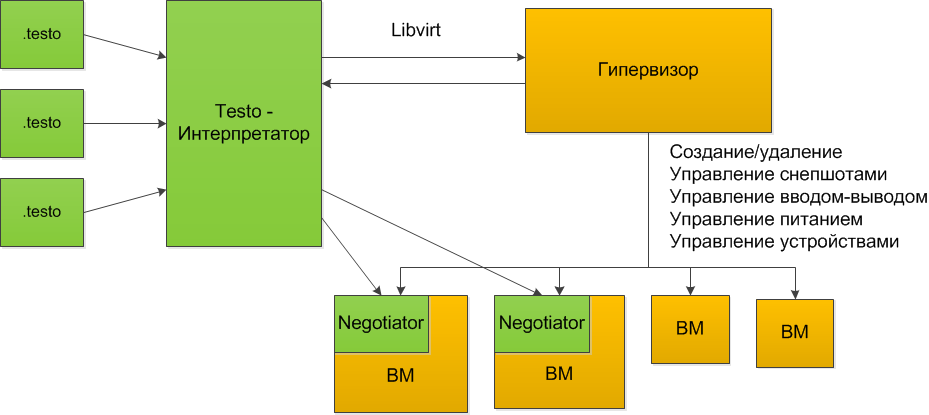
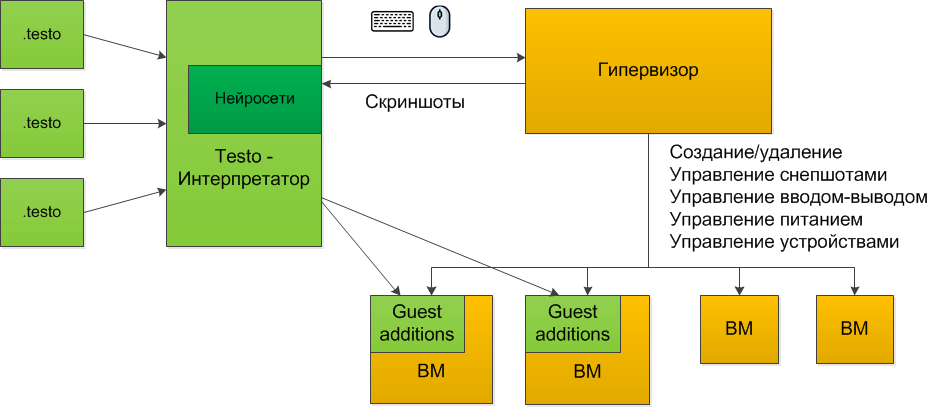
docs update

diff --git a/docs/source/getting_started/intro.rst b/docs/source/getting_started/intro.rst
@@ -15,23 +15,27 @@
 
 	- Unit-тестирование
 	- Тестирование API
+	- Интеграционное тестирование
 	- Системное тестирование
-	- Тестирование с точки зрения пользователя (Черный ящик)
 
 Unit-тестирование помогает протестировать исходные коды программы, правильность выполнения тех или иных функций.
 
 Тестирование API (если оно есть) позволяет протестировать правильность реагирования программы на те или иные команды и воздействия
 
+Интеграционное тестирование - это комплексное тестирование программы или отдельных крупных ее компонентов, без учета окружения, в котором будет работать эта программа/
+
 Системное тестирование позволяет проверить правильность работы программы **с учетом ее окружения**, то есть с учетом наличия в системе других программ, с учетом версии операционной системы, с учетом наличия сети и других узлов в ней и т.д.
 
-Тестирование с токи зрения пользователя (или тестирование по методу черного ящика) - это тестирование программы в том виде, в котором ее увидит пользователь.
+Первые два вида тестов достаточно легко поддаются автоматизации и вы можете найти много как коммерческих, так и открытых платформ для этого.
 
-И если первые два слоя изучены достаточно подробно и их автоматизация - лишь дело техники, то системное тестирование и тестирование по методу черного ящика - достаточно слабо поддаются автоматизации, в результате чего практически всю работу приходится выполнять вручную.
+Интеграционное тестирование сложнее поддается автоматизации, и для решения этой задачи можно найти только коммерческие решения.
 
-Платформа для автоматизированного тестирования Testo помогает решить эту проблему и позволяет организовывать автоматическое системное тестирование программного обеспечения (будь то отдельная программа, комплекс программ или целая ОС) с использованием виртуальных машин.
+Системное тестирование, с другой стороны - это наиболее комплексный вид тестирования, в котором SUT представлена в том виде, в котором ее увидит пользователь (то есть с учётом окружения: ОС, сети, оборудование). Унифицированный способ автоматизации такого вида тестов может заключаться только в автоматизации действия конечного потребителя - то есть человека.
+
+Платформа для автоматизированного тестирования Testo помогает решить эту проблему и позволяет организовывать автоматическое системное тестирование программного обеспечения (будь то отдельная программа, комплекс программ или целая ОС) с использованием виртуальных машин. При этом тестирование происходит по методу имитации действий человека, который работает с виртуальной машиной.
 
 
-Основная идея, положенная в основу Testo - это имитация действий реальных людей, осуществляющих тестирование программного обеспечения. В сущности, взаимодействие человека и машины заключается в вводе (нажатии на определенные клавиши и кнопки мыши в нужном порядке, нажатии кнопок питания, подсоединении или отсоединении сетевых кабелей, флешек и дисков) и анализе вывода на экране. Если ожидаемое событие от ввода команды отличается от фактической картинки на экране (например, человек ожидает увидеть надпись "Успех", но не может её дождаться достаточно длительное время), то человек классифицирует такую ситуацию как ошибку.
+В сущности, взаимодействие человека и машины заключается в вводе (нажатии на определенные клавиши и кнопки мыши в нужном порядке, нажатии кнопок питания, подсоединении или отсоединении сетевых кабелей, флешек и дисков) и анализе вывода на экране. Если ожидаемое событие от ввода команды отличается от фактической картинки на экране (например, человек ожидает увидеть надпись "Успех", но не может её дождаться достаточно длительное время), то человек классифицирует такую ситуацию как ошибку.
 
 Именно такое поведение платформа Testo позволяет автоматизировать.
 
@@ -51,4 +55,4 @@ Unit-тестирование помогает протестировать ис
 
 .. figure:: img/general-negotiator.png
 
-	Общая схема архитектуры фреймворка с использованием negotiator
+	Общая схема архитектуры фреймворка с использованием гостевых дополнений

diff --git a/docs/source/lang/var_refs.rst b/docs/source/lang/var_refs.rst
@@ -3,34 +3,34 @@
 
 .. _var_refs:
 
-Обращение к переменным
+Обращение к параметрам
 ======================
 
-В языке Testo существует особенность обобщать процесс тестирования с помощью переменных. На текущий момент переменные могут принимать только текстовые значения. Существует четыре способа задания переменных:
+В языке Testo существует особенность обобщать процесс тестирования с помощью параметров. На текущий момент параметры могут принимать только текстовые значения. Существует четыре способа задания параметров:
 
-	- Через параметр (глобальную константу) в тексте файла .testo
-	- Через параметр (глобальную константу), переданный в качестве аргумента командой строки
+	- Через глобальную константу в тексте файла .testo
+	- Через глобальную константу, переданную в качестве аргумента командой строки
 	- Через счетчик в цикле ``for``
-	- В качестве параметров в макросах
+	- В качестве аргументов в макросах
 
-Обращаться к переменным можно в следующих местах скриптов:
+Обращаться к параметрам можно в следующих местах скриптов:
 
 	- в составе :ref:`действий <actions>`, которые в качестве аргумента принимают строки
-	- в конфигурациях виртуальной машины или виртуального флеш-накопителя (в тех атрибутах, которые могут принимать строковые значения). Обращение к переменной во всех случаях выглядит одинаково:
+	- в конфигурациях виртуальной машины или виртуального флеш-накопителя (в тех атрибутах, которые могут принимать строковые значения). Обращение к параметру во всех случаях выглядит одинаково:
 
 .. code-block:: none
 
 	"${VAR_REF}"
 
-Где ``VAR_REF`` - это идентификатор с именем переменной
+Где ``VAR_REF`` - это идентификатор с именем параметра
 
-Обращаться к переменной можно прямо внутри строки, не прерывая ее:
+Обращаться к параметру можно прямо внутри строки, не прерывая ее:
 
 .. code-block:: none
 
 	"Hello ${VAR_REF}"
 
-Обращаться к переменным можно и в многострочных строках и в select-выражениях
+Обращаться к параметрам можно и в многострочных строках и в select-выражениях
 
 .. code-block:: none
 
@@ -38,23 +38,22 @@
 		${VAR_REF}
 	"""
 
-	`select * from textlines
-		where text = "Menu entry"
-			and foreground = "${foreground_colour}"
-			and background = "gray"`
+	js """
+		detect_text("Menu entry", "${foreground_colour}, "${gray}")
+	"""
 
-Экранирование обращения к переменным
+Экранирование обращения к параметрам
 ++++++++++++++++++++++++++++++++++++
 
 Для экранирования сочетания символов ``${`` необходимо добавить еще один знак доллара в начале: ``$${``.
 
 
-Порядок разрешения значения переменных
+Порядок разрешения значения параметров
 ++++++++++++++++++++++++++++++++++++++
 
-При обращении к переменной ее значение вычисляется по следующему алгоритму, причем если на каком-то шаге находится значение переменной, то алгоритм прекращается:
+При обращении к параметру его значение вычисляется по следующему алгоритму, причем если на каком-то шаге находится значение, то алгоритм прекращается:
 
-	1) Если обращение к переменной происходит внутри цикла ``for``, то проверяется, является ли переменная счетчиком цикла
-	2) Если обращение к переменной происходит внутри макроса, то проверяется, является ли переменная параметром макроса
-	3) Если на предыдущих этапах не получилось вычислить значение, то проверяется, является ли переменная параметром (глобальной константой)
+	1) Если обращение к параметру происходит внутри цикла ``for``, то проверяется, является ли параметр счетчиком цикла
+	2) Если обращение к параметру происходит внутри макроса, то проверяется, является ли параметр аргументов макроса
+	3) Если на предыдущих этапах не получилось вычислить значение, то проверяется, является ли параметр глобальной константой
 	5) Возвращается пустая строка

diff --git a/docs/source/getting_started/starting.rst b/docs/source/getting_started/starting.rst
@@ -14,7 +14,11 @@
 Режим прогона тестов
 ++++++++++++++++++++
 
-Ниже приведен список аргументов, которые можно передать в интерпретатор ``testo`` при запуске в режиме прогона тестов
+.. note::
+
+  В режиме прогона тестов необходимо указать путь к файлу с действующей лицензией с помощью аргумента ``license <path>``
+
+Ниже приведен список аргументов, которые можно передать в интерпретатор ``testo`` при запуске в режиме прогона тестов.
 
 .. code-block:: console
 
@@ -22,7 +26,7 @@
     [--prefix <prefix>] [--stop_on_fail] [--assume_yes] [--test_spec <wildcard pattern>] \
     [--exclude <wildcard pattern>] [--invalidate <wildcard pattern>] \
     [--report_folder </path/to/folder>] [--report_logs] [--report_screenshots] \
-    [--hypervisor <hypervisor type>]
+    [--license <path>] [--hypervisor <hypervisor type>]
 
 * ``input_file`` или ``input_folder``: Путь к файлу или к папке с тестовыми сценариями. В случае указания папки будет дополнительно проведен рекурсивный поиск по всем подпапкам в указанной директории
 * ``param <param_name> <param_value>``: Объявить параметр с именем ``param_name`` и значением ``param_value``. Параметр будет доступен внутри тестового сценария наряду с статическими прописанными параметрами
@@ -35,6 +39,7 @@
 * ``report_folder </path/to/folder>``: Сохранять отчеты о прохождении тестов в формате json в указанную папку. Если папка уже существует, она должна быть пустой
 * ``report_logs``: Сохранять логи о ходе проведения тестов в файлы. Файлы будут создаваться в папке, указанной в аргументе ``report_folder``. Этот аргумент можно указывать только в совокупности с аргументом ``report_folder``
 * ``report_screenshots``: Сохранять скриншоты при ошибках команды ``wait``. Скриншоты будут создаваться в папке, указанной в аргументе ``report_folder``. Этот аргумент можно указывать только в совокупности с аргументом ``report_folder``
+* ``license <path>``: Путь к файлу с действующей лицензией.
 * ``hypervisor <hypervisor type>``: Указать используемый гипервизор. В настоящее время полноценно поддерживается гипервизор ``qemu``. Остальные гипервизоры поддерживаются в экспериментальном режиме. Аргумент является необязательным - при его отсутствии тип гипервизора будет определен автоматически в зависимости от типа используемой ОС.
 
 Режим очистки созданных сущностей

diff --git a/docs/source/lang/js_selections.rst b/docs/source/lang/js_selections.rst
@@ -15,9 +15,14 @@
 
 Команды ``wait`` и ``check`` будут периодически снимать состояния экрана виртуальной машины (в случае с ``check`` проверка будет сделана один раз, только если не указан спеуификатор ``timeout``), и для каждого снятого скриншота будет вызываться js-обработчик.
 
-Внутри js-скрипта можно использовать ряд встроенных функций, список которых представлен далее. С помощью этих встроенных функций можно оценивать содержимое экрана/
+Внутри js-скрипта можно использовать ряд встроенных функций, список которых представлен далее. С помощью этих встроенных функций можно оценивать содержимое экрана
 
 Поисковое выражение принимает значение, которое возвращается в конце js-скрипта
+
+.. note::
+	Если js-скрипт оформлен в однострочной строке, то необходимо экранировать двойные кавычки, использующиеся внутри самого скрипта (см. пример ниже).
+
+	Если же js-скрипт оформлен с использованием многострочных строк, то экранировать двойные кавычки не нужно.
 
 Встроенные функции
 ------------------
@@ -39,5 +44,13 @@ detect_text
 
 
 **Возвращаемое значение** - ``true`` в случае обнаружения искомой строки, ``false`` - иначе
+
+Примеры
+
+**Пример 1**. Дождаться появления надписи Hello world синего цвета на сером фоне
+
+.. code-block:: none
+
+	wait js "detect_text(\"Hello world\", \"blue\", \"gray\")"
 
 

diff --git a/docs/source/getting_started/getting_started.rst b/docs/source/getting_started/getting_started.rst
@@ -9,14 +9,13 @@
 Операционная система
 --------------------
 
-На текущий момент мы можем гарантировать работу нашей платформы только при использовании Ubuntu 64 bit весии 18.04 и выше. В будущем предполагается работа на ОС семейства Windows и на других дистрибутивах Linux.
+На текущий момент мы можем гарантировать работу нашей платформы только при использовании Ubuntu 64 bit весии 18.04 и выше. В будущем предполагается работа на других дистрибутивах Linux.
 
 
 Установка пакетов
 -----------------
 
 В основе нашей платформы лежит управление виртуальными машинами с помощью гипервизора. И хотя у нас реализована тестовая работа с гипервизорами Virtual Box и HyperV, в настоящий момент полноценная работа нашей платформы возможна только при взаимодействии с гипервизором `QEMU`_
-
 
 Для успешной работы Testo с QEMU в ОС Ubuntu нужно установить следующие пакеты:
 
@@ -31,4 +30,15 @@ QEMU позволяет управлять виртуальными машина
   # apt-get install virt-manager
 
 После установки virt-manager необходимо перезагрузиться
+
+Установка платформы Testo
+-------------------------
+
+Для установки платформы Testo достаточно выполнить команду
+
+.. code-block:: console
+
+  # apt-get install testo-1.3.0.deb
+
+После установки в системе появится новая программа ``testo``
 

diff --git a/docs/source/lang/flash.rst b/docs/source/lang/flash.rst
@@ -29,7 +29,7 @@ flash
 
 	*  ``fs`` - тип файловой системы, которая будет использоваться в флеш-накопителе. В настоящий момент поддерживается только значения ``"ntfs"`` и ``"vfat"``
 	*  ``size`` - размер флешки. Значение атрибута должно быть **спецификатором количества памяти**.
-	*  ``folder`` - путь к папке в хостовой машине, которую необходимо скопировать на флешку при ее создании. Необязательный атрибут. Значение атрибута должно быть **строкой**. Если в строке присутствует обращение к переменной, то ее значение будет взято из переменной окружения.
+	*  ``folder`` - путь к папке в хостовой машине, которую необходимо скопировать на флешку при ее создании. Необязательный атрибут. Значение атрибута должно быть **строкой**.
 
 Ниже представлен пример объявления флеш-накопителя:
 
@@ -40,9 +40,6 @@ flash
 		size: 32Mb
 		folder: "./some_folder"
 	}
-
-.. warning::
-    Для использования виртуальных флеш-накопителей необходимо загрузить модуль ядра ``nbd`` с параметром ``max_parts=1``. Сделать это можно командой ``sudo modprobe nbd max_parts=1``
 
 
 Кешируемость виртуальных флеш-накопителей

diff --git a/docs/source/lang/machine.rst b/docs/source/lang/machine.rst
@@ -38,7 +38,7 @@ machine
 
 	*  ``cpus`` - количество ядер процессора. Значение атрибута должно быть **числом**.
 	*  ``ram`` - количество оперативной памяти. Значение атрибута должно быть **спецификатором количества памяти**.
-	*  ``iso`` - путь к файлу с iso-образом, который можно использовать для установки ОС. Значение атрибута должно быть **строкой**. Если в строке присутствует обращение к переменной, то ее значение будет взято из переменной окружения.
+	*  ``iso`` - путь к файлу с iso-образом, который можно использовать для установки ОС. Значение атрибута должно быть **строкой**.
 	*  ``disk_size`` - размер основного жесткого диска. Значение атрибута должно быть **спецификатором количества памяти**.
 
 Для указания сетевых адаптеров можно использовать атрибут ``nic``. Атрибут ``nic`` должен иметь имя (чтобы различать адаптеры между собой), и в качестве значения должна выступать группа вложенных атрибутов:

diff --git a/docs/source/getting_started/test_policy.rst b/docs/source/getting_started/test_policy.rst
@@ -13,7 +13,7 @@
 
 	рис. 1. Иерархическая структура тестов
 
-В приведенном примере тесты ``T1``, ``T2`` и ``T3`` являются самыми простыми и будут запущены в любом случае. Тест ``T4`` запустится только если успешно отработает тест ``T1`` (тесты ``T5``, ``T6`` и ``T7`` обладают схожей логикой). Тест ``T8`` требует успешного выполнения тестов ``T5`` и ``T6``, а тест ``T9`` - успешного выполнения всех остальных тестов.
+В приведенном примере тесты ``T1``, ``T2`` и ``T3`` являются самыми простыми и будут запущены в любом случае. Тест ``T4`` запустится только если успешно отработает тест ``T1`` (тесты ``T5``, ``T6``, ``T7`` и ``Т10`` обладают схожей логикой). Тест ``T8`` требует успешного выполнения тестов ``T5`` и ``T6``, а тест ``T9`` - успешного выполнения всех остальных тестов.
 
 .. note::
 

diff --git a/docs/source/lang/actions.rst b/docs/source/lang/actions.rst
@@ -157,7 +157,7 @@ wait
 
 	wait "Искомая строка"
 
-Внутри строк можно использовать обращение к переменным
+Внутри строк можно использовать обращение к параметрам
 
 .. code-block:: none
 
@@ -199,7 +199,7 @@ wait
 		detect_text("Menu entry", "${foreground_colour}", "gray")
 	"""
 
-Дождаться либо отсутствия на экране надписи "Hello world", либо наличия на экране надписи "Menu entry" с серым фоном и цветом букв, определенным в переменной ``foreground_colour``
+Дождаться либо отсутствия на экране надписи "Hello world", либо наличия на экране надписи "Menu entry" с серым фоном и цветом букв, определенным в параметре ``foreground_colour``
 
 .. _macro_call:
 

diff --git a/docs/source/lang/test.rst b/docs/source/lang/test.rst
@@ -86,7 +86,7 @@ test
 	- Есть ли недействительный кеш хотя бы у одного предка теста?
 	- Изменился ли заголовок теста?
 	- Изменились ли команды в теле теста?
-	- Изменилось ли значение переменных, участвующих в тесте?
+	- Изменилось ли значение параметров, участвующих в тесте?
 	- Изменилась ли существенно конфигурация виртуальных машин, участвующих в тесте?
 	- Изменилась ли существенно конфигурация флеш-накопителей, участвующих в тесте?
 	- Изменилась ли существенно конфигурация виртуальных сетей, учавствующих в тесте?

diff --git a/docs/source/lang/keys.rst b/docs/source/lang/keys.rst
@@ -89,5 +89,7 @@
 	- PAGEDOWN
 	- INSERT
 	- DELETE
+	- LEFTMETA
+	- RIGHTMETA
 	- SCROLLUP
 	- SCROLLDOWN
